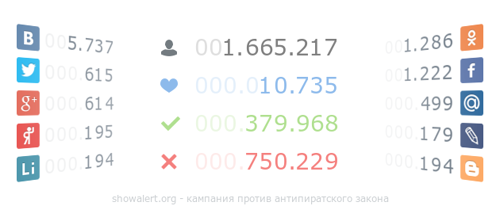
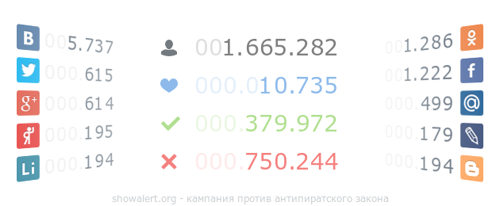
update statistics files for plugins

Changed region(s): [[0.6, 0.7282, 0.69, 0.8447], [0.6, 0.1748, 0.69, 0.2913], [0.6, 0.5534, 0.69, 0.6408]]

diff --git a/votes.js b/votes.js
@@ -1,1 +1,1 @@
-window.lk.votes(30861)
+window.lk.votes(30870)
